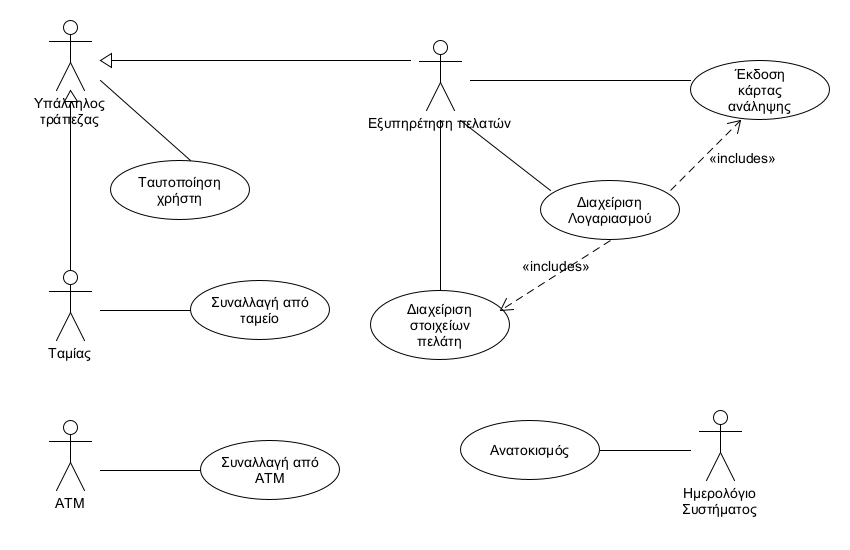
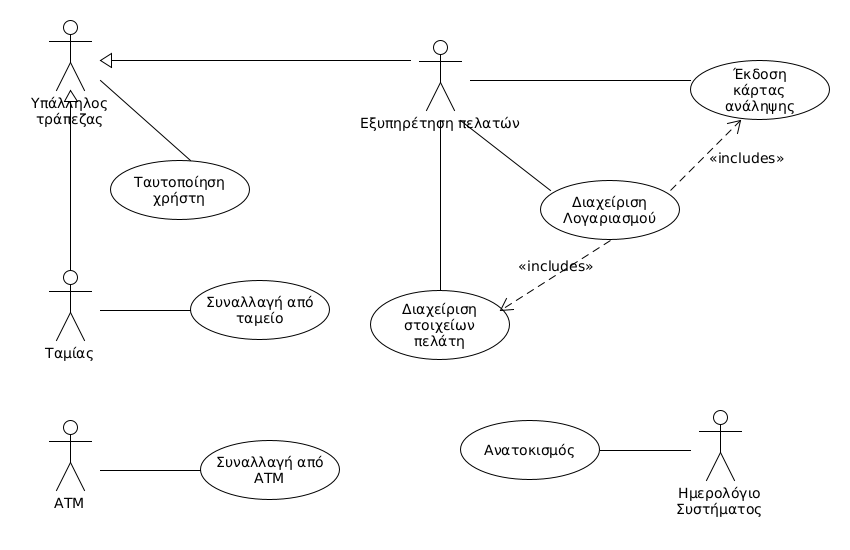
r2 use cases

diff --git a/README.md b/README.md
@@ -30,28 +30,25 @@
 16 | Το σύστημα επιτρέπει σε εγγεγραμμένους και μη χρήστες να έχουν πρόσβαση στο πρόγραμμα των αγώνων και στα αποτελέσματα κάθε γύρου.
 17 | Το σύστημα θα δίνει τη δυνατότητα στον διοργανωτή να ανεβάζει για τη συγκεκριμένη διοργάνωση λεπτομερή γεγονότα του κάθε αγώνα (πόντοι κάθε παίκτη, χρόνος συμμετοχης κ.α) τα οποία αναπαράγουν τα στατιστικά της κάθε διοργάνωσης.
 18 | Το σύστημα πρέπει να διατηρεί τα στατιστικά της κάθε διοργάνωσης και μετά το πέρας της.
-19 | Το σύστημα δίνει τη δυνατότητα στον Admin του συστήματος να επιβλέπει όλες τις λειτουργίες που πραγματοποιούνται.
+
 
 
 ### **Πίνακας Περιπτώσεων Χρήσης:**
 
-
 Περιπτώση Χρήσης |  Περιγραφή
 ------------ | --------------
-**ΠΧ1. Επίβλεψη πλατφόρμας** | Ο Admin (διαχειριστής συστήματος) θα μπορεί να επιβλέπει την πλατφόρμα του συστήματος και να ελέγχει για πιθανά σφάλματα είτε της ίδιας της πλατφόρμας είτε των χρηστών της.
+**ΠΧ1. Προβολή πληροφοριών διοργάνωσης** | Ο χρήστης εγγεγραμένος ή μη θα έχει την δυνατότητα να παρακολουθεί τις γενικότερες πληροφορίες για κάποια διοργάνωση ( αγώνες, βαθμολογίες κλπ.)
 **ΠΧ2. Εγγραφή** | Ο χρήστης μπορεί να εγγραφεί στο σύστημα μέσω της πλατφόρμας.
-**ΠΧ3. Επαλήθευση mail** | Ο χρήστης για να κάνει επιτυχή εγγραφή στο σύστημα θα πρέπει να επαληθεύσει την εγγραφή του με το mail.
-**ΠΧ4. Προβολή πληροφοριών διοργάνωσης** | Ο χρήστης εγγεγραμένος ή μη θα έχει την δυνατότητα να παρακολουθεί τις γενικότερες πληροφορίες για κάποια διοργάνωση ( αγώνες, βαθμολογίες κλπ.)
-**ΠΧ5. Επεξεργασία Στοιχείων Διοργάνωσης** | Το ημερολόγιο κρατάει όλες τα απαραίτητα στοιχεία την κάθε διοργάνωση ( στατιστικά, πρόγραμμα αγώνων).
-**ΠΧ6. Διαχείριση διοργάνωσης** | Ο Διοργανωτής μπορεί να επιβλέπει όποια διοργάνωση έχει δημιουργήσει και να την διαχειριστεί για διάφορες αλλαγές που θέλει ή χρειάζοναι.
-**ΠΧ7. Ταυτοποίηση Χρήστη** | Ο εγγεγραμμένος χρήστης οφείλει να ταυτοποιείται σε κάθε του σύνδεση στην πλατφόρμα του συστήματος.
-**ΠΧ8. Αποδοχή αιτήματος ομάδας** | Ο Παίκτης μπορεί να αποδεχτεί αιτήματα για συμμετοχή σε ομάδα, που γίνονται από τους αντιπρόσωπους.
-**ΠΧ9. Δήλωση ενδιαφέροντος για ομάδα** | Ο Παίκτης μπορεί να δηλώσει ότι ενδιαφέρεται να συμμετάσχει σε μία ομάδα για μία διοργάνωση. Αυτή η δήλωση, εγγράφεται στον κατάλογο των παικτών που είναι προς αναζήτηση συμπαικτών.
-**ΠΧ10. Δημιουργία διοργάνωσης** | Κάθε Διοργανωτής μπορεί να δημιουργήσει μία ή περισσότερες διοργανώσεις μέσω του συστήματος. Εκεί πρέπει να κάνει τις απαραίτητες επιλογές.
-**ΠΧ11. Δημιουργία ομάδας** | Κάθε Αντιπρόσωπος έχει την δυνατότητα να δημιουργήσει την δικιά του ομάδα για συμμετοχή σε μία διοργάνωση.
-**ΠΧ12. Εύρεση ατόμων** | Σε περίπτωση που υπάρχουν ελλείψεις παικτών από μία ομάδα, ο Αντιπρόσωπος της μπορεί να αναζητήσει παίκτες από τον κατάλογο παικτών που δήλωσαν ενδιαφέρον συμμετοχής σε ομάδα.
-**ΠΧ13. Δήλωση συμμετοχής σε διοργάνωση** | Κάθε αντιπρόσωπος και μόνος αυτός μπορεί να δηλώσει συμμετοχή για μία ομάδα σε μία διοργάνωση.
+**ΠΧ3. Ταυτοποίηση Χρήστη** | Ο εγγεγραμμένος χρήστης οφείλει να ταυτοποιείται σε κάθε του σύνδεση στην πλατφόρμα του συστήματος.
+**ΠΧ4. Διαχείρηση στοιχείων διοργάνωσης** | Ο διοργανωτής ορίζει τα στοιχεία της διοργάνωσης, πρίν ή μετα τη δημιουργία της.
+**ΠΧ5. Διεξαγωγή Διοργάνωσης** | Ο διοργανωτής επιβλέπει και καθοδηγεί τη εξέλιξη της διοργάνωσης.
+**ΠΧ6. Αποδοχή αιτήματος ομάδας** | Ο Παίκτης μπορεί να αποδεχτεί αιτήματα για συμμετοχή σε ομάδα, που γίνονται από τους αντιπρόσωπους.
+**ΠΧ7. Δήλωση ενδιαφέροντος για ομάδα** | Ο Παίκτης μπορεί να δηλώσει ότι ενδιαφέρεται να συμμετάσχει σε μία ομάδα για μία διοργάνωση. Αυτή η δήλωση, εγγράφεται στον κατάλογο των παικτών που είναι προς αναζήτηση συμπαικτών.
+**ΠΧ8. Δήλωση συμμετοχής σε διοργάνωση** | Κάθε αντιπρόσωπος και μόνος αυτός μπορεί να δηλώσει συμμετοχή για μία ομάδα σε μία διοργάνωση.
+**ΠΧ9. Δημιουργία ομάδας** | Κάθε Αντιπρόσωπος έχει την δυνατότητα να δημιουργήσει την δικιά του ομάδα για συμμετοχή σε μία διοργάνωση.
+**ΠΧ10. Αναζήτηση παικτών** | Σε περίπτωση που υπάρχουν ελλείψεις παικτών από μία ομάδα, ο Αντιπρόσωπος της μπορεί να αναζητήσει παίκτες από τον κατάλογο παικτών που δήλωσαν ενδιαφέρον συμμετοχής σε ομάδα.
+
 
 ### **Επισκόπηση διαγράμματος περιπτώσεων χρήσης**
 
-![Εναλλακτικό κείμενο](/docs/markdown/uml/requirements/use_case_R1.png)
+![Εναλλακτικό κείμενο](/docs/markdown/uml/requirements/use_case_R2.png)

diff --git a/docs/markdown/uc2-registration.md b/docs/markdown/uc2-registration.md
@@ -1,0 +1,34 @@
+# ΠΧ2. Εγγραφή
+
+**Πρωτεύων Actor**: Χρήστης  
+**Ενδιαφερόμενοι**  <br>
+**Προϋποθέσεις**  
+
+## Βασική Ροή
+
+### Α) Εγγραφή παίκτη
+1. Το σύστημα ζητάει στον χρήστη να εγγραφεί ως παίκτης ή ως διοργανωτής.
+2. Ο χρήστης επιλέγει έναν απο τους παραπάνω ρόλους.
+3. Το σύστημα εμφανίζει τα πεδία  που πρέπει να συμπληρωθούν για την εγγραφή.(Ονοματεπώνυμο, τηλέφωνο, credentials κλπ.)
+4. Ο χρήστης συμπληρώνει τα πεδία.
+5. Το σύστημα ελέγχει την εγκυρότητα των στοιχείων.
+6. Το σύστημα στέλνει μήνυμα επιβεβαίωσης στη διεύθυνση email που έδωσε ο χρήστης.
+7. Ο χρήστης επιβεβαιώνει την εγγραφή του εντός 24 ωρών.
+8. Το σύστημα αποθηκεύει τα στοιχεία του νέου χρήστη.
+
+## Εναλλακτικές Ροές
+
+*5α. Τα στοιχεία δεν είναι έγκυρα*
+1. Το σύστημα ζητάει απο τον χρήστη να διορθώσει τα σημεία που εντοπίζεται κάποιο λάθος.
+	
+*7α. Ο χρήστης δεν επιβεβαιώνει την εγγραφή του εντός 24 ωρών*
+1. Τα στοιχεία του δεν αποθηκεύονται, και η εγγραφή δεν ολοκληρώνεται.
+
+
+## Διαγράμματα
+
+### Διάγραμμα δραστηριότητας - Εγγραφή
+![Διάγραμμα δραστηριότητας - Άνοιγμα Λογαριασμού](uml/requirements/activity-create-account.png)
+
+
+

diff --git a/docs/markdown/software-requirements.md b/docs/markdown/software-requirements.md
@@ -26,7 +26,7 @@
 
 ## Επισκόπηση μοντέλου περιπτώσεων χρήσης
 
-![Διάγραμμα περιπτώσεων χρήσης](uml/requirements/use_case_R1.png)
+![Διάγραμμα περιπτώσεων χρήσης](uml/requirements/use_case_R2.png)
 
 *Διάγραμμα Περιπτώσεων Χρήσης.*
 
